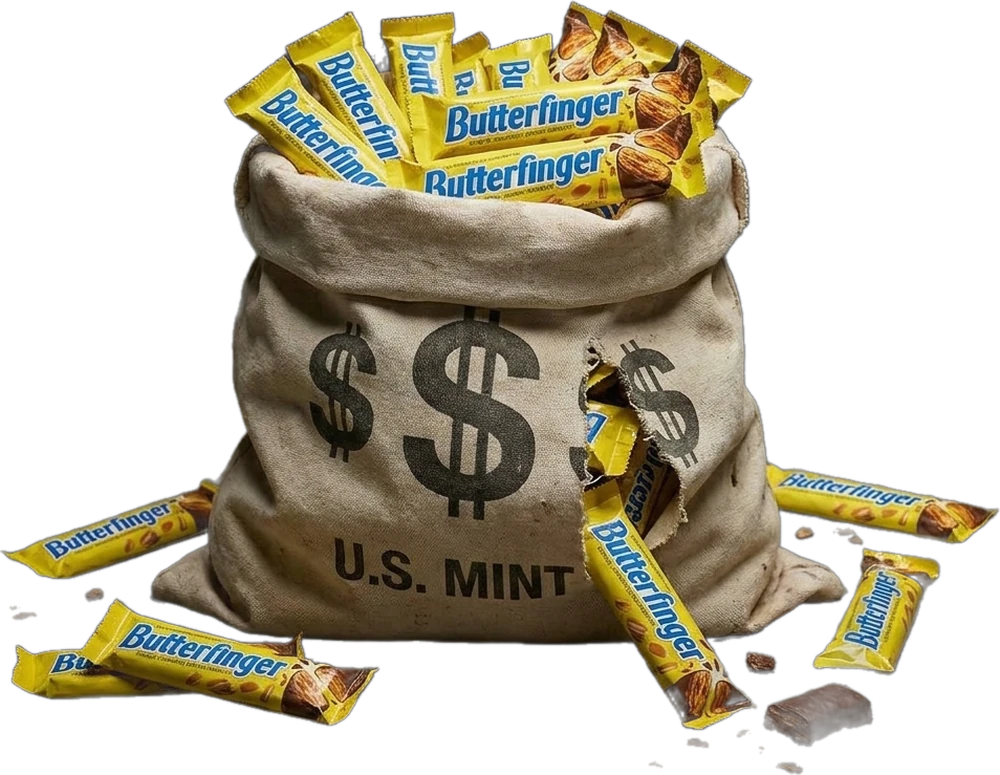
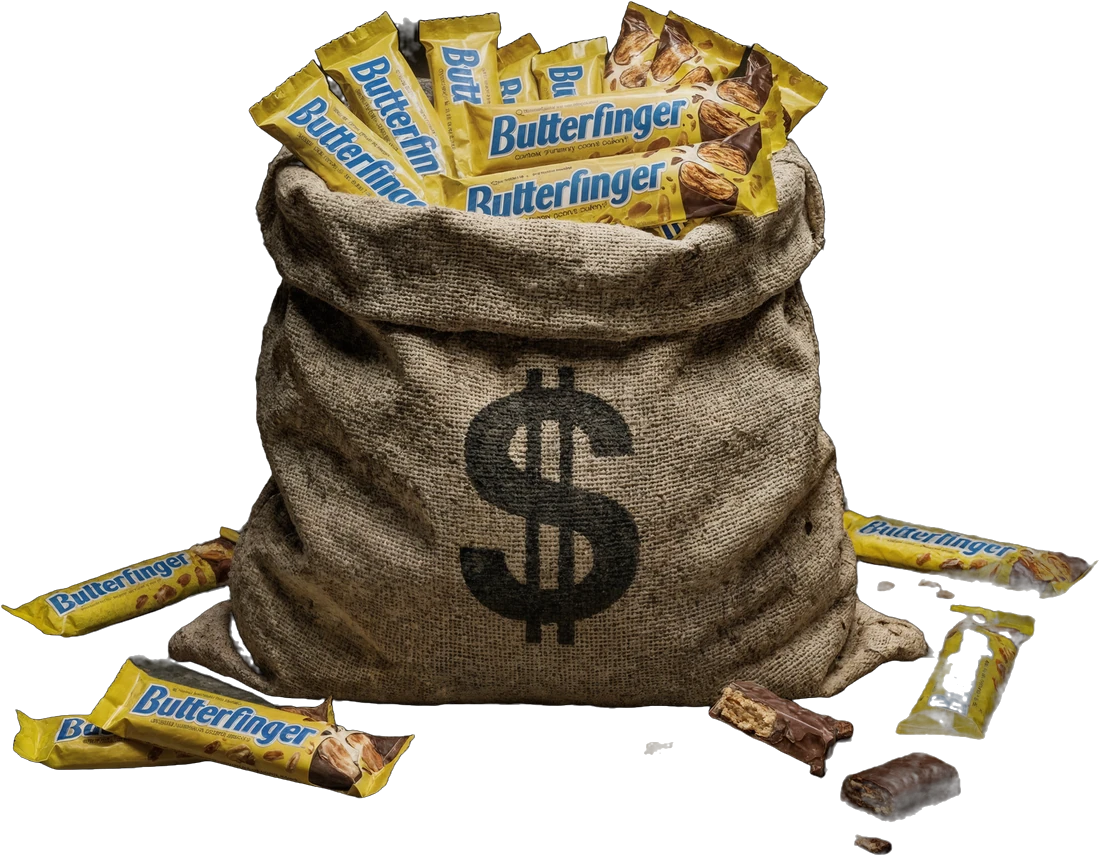
Butterfinger: new money bag image with spotlight in the Idea corner
Claude-Session: https://claude.ai/code/session_01To1VkTNHmNJrPyyr8oRyzH

diff --git a/pages/butterfinger-never-ever.html b/pages/butterfinger-never-ever.html
@@ -46,7 +46,11 @@ html,body{margin:0}
 .bf .cf mark{background:none;color:inherit;padding:0}
 .bf .cf .bd{margin:calc(var(--u)*.4) 0 0;padding-left:calc(var(--u)*2.4);border-left:calc(var(--u)*.3) solid var(--br);font:500 calc(var(--u)*2)/1.62 var(--lab);color:var(--br)}
 .bf .cf .ev{display:inline-block;padding:.08em .5em .12em;border-radius:99px;background:var(--br);color:var(--y);font:400 .8em/1.1 var(--disp);letter-spacing:.04em;transform:rotate(-3deg);box-shadow:0 .12em 0 var(--b)}
-.bf .cf .bag{position:absolute;right:calc(var(--g)*-.3);bottom:calc(var(--u)*-1.4);width:calc(var(--u)*27);height:auto;z-index:0;pointer-events:none;filter:drop-shadow(0 .6em .8em rgba(59,27,9,.28))}
+.bf .cf .bag{position:absolute;right:calc(var(--g)*-.3);bottom:calc(var(--u)*-1.4);width:calc(var(--u)*27);height:auto;z-index:2;pointer-events:none;filter:brightness(1.1) contrast(1.06) saturate(1.1) drop-shadow(0 .6em .8em rgba(59,27,9,.35))}
+.bf .cf .beam{position:absolute;right:calc(var(--g)*-.3 - var(--u)*7.5);bottom:0;width:calc(var(--u)*42);height:100%;z-index:0;pointer-events:none;background:linear-gradient(180deg,rgba(255,206,40,.05) 0,rgba(255,214,60,.4) 55%,rgba(255,226,90,.62) 100%);clip-path:polygon(45% 0,55% 0,100% 100%,0 100%);filter:blur(7px)}
+.bf .cf .pool{position:absolute;right:calc(var(--g)*-.3 - var(--u)*5.5);bottom:calc(var(--u)*-3);width:calc(var(--u)*38);height:calc(var(--u)*13);z-index:1;pointer-events:none;background:radial-gradient(ellipse at 50% 50%,rgba(255,196,30,.7) 0,rgba(255,226,70,.3) 52%,transparent 72%)}
+.bf.js .cf .beam,.bf.js .cf .pool{opacity:0;transition:opacity 1s ease .5s}
+.bf.js .cf .bag.in~.beam,.bf.js .cf .bag.in~.pool{opacity:1}
 .bf .cf .lb,.bf .cf .idg{position:relative;z-index:1}
 .bf .cf{padding-bottom:calc(var(--u)*14)}
 .bf .cf{background:var(--y2);color:var(--br);background-image:radial-gradient(rgba(59,27,9,.09) 1.2px,transparent 1.4px);background-size:calc(var(--u)*1.6) calc(var(--u)*1.6)}
@@ -198,7 +202,7 @@ html,body{margin:0}
 .bf .tg{grid-template-columns:minmax(0,1fr)}
 }
 @media(max-width:700px){
-.bf .cf{padding-bottom:9rem}.bf .cf .bag{width:12.5rem;right:-1.4rem;bottom:-.8rem}
+.bf .cf{padding-bottom:9rem}.bf .cf .bag{width:12.5rem;right:-1.4rem;bottom:-.8rem}.bf .cf .beam{width:20rem;right:-6rem}.bf .cf .pool{width:18rem;height:6rem;right:-5rem;bottom:-1.6rem}
 .bf .fp .swd{width:7rem;left:auto;right:-.4rem;top:-4.4rem}
 .bf .so1 .nf i:not(.m){display:none}
 .bf .so1 .nf i{width:calc(var(--u)*var(--w)*1.15)}
@@ -278,7 +282,8 @@ html,body{margin:0}
 </section>
 
 <section class="cf" id="bfCf">
-  <img class="bag rv" src="https://raw.githubusercontent.com/manicpixiedigifairy/nina-site/main/assets/bfn-moneybag.webp?v=1" alt="" width="1000" height="775" loading="lazy">
+  <img class="bag rv" src="https://raw.githubusercontent.com/manicpixiedigifairy/nina-site/main/assets/bfn-moneybag.webp?v=2" alt="" width="1100" height="856" loading="lazy">
+  <span class="beam" aria-hidden="true"></span><span class="pool" aria-hidden="true"></span>
   <span class="lb rv">The Idea</span>
   <div class="idg">
     <p class="lead rv">The Butterfinger Investigators (BFI) are a task force with one <mark>mission</mark>: returning stolen Butterfingers to their rightful owners.</p>
